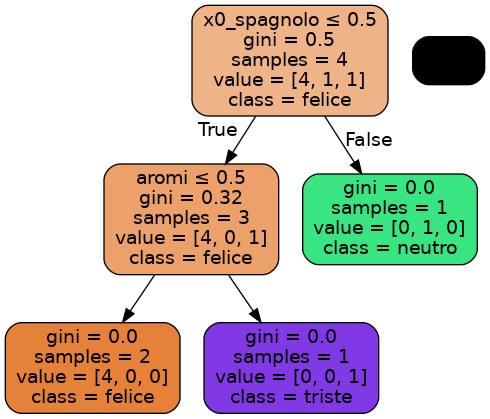
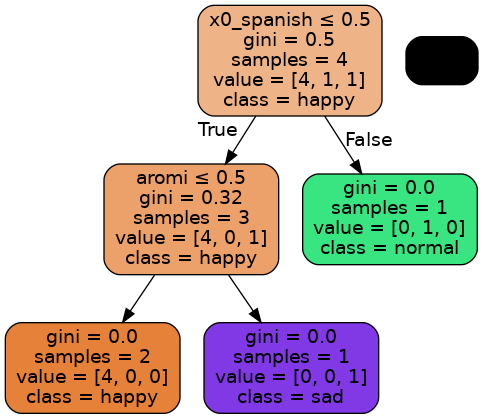
translated italian words to english

diff --git a/server/rec_sys_coffee/rec_sys.py b/server/rec_sys_coffee/rec_sys.py
@@ -38,7 +38,7 @@ user_email = "user3@email.com"
 trained_model, encoder = random_forest.train_and_recommend(users_data)
 
 # New purchase features
-new_purchase_features = [users_data[user_email]['immutables'],0, 1, 'sera', 'felice']
+new_purchase_features = [users_data[user_email]['immutables'],0, 1, 'evening', 'happy']
 
 # Make prediction
 predicted_label = random_forest.make_prediction(trained_model, encoder, new_purchase_features)
